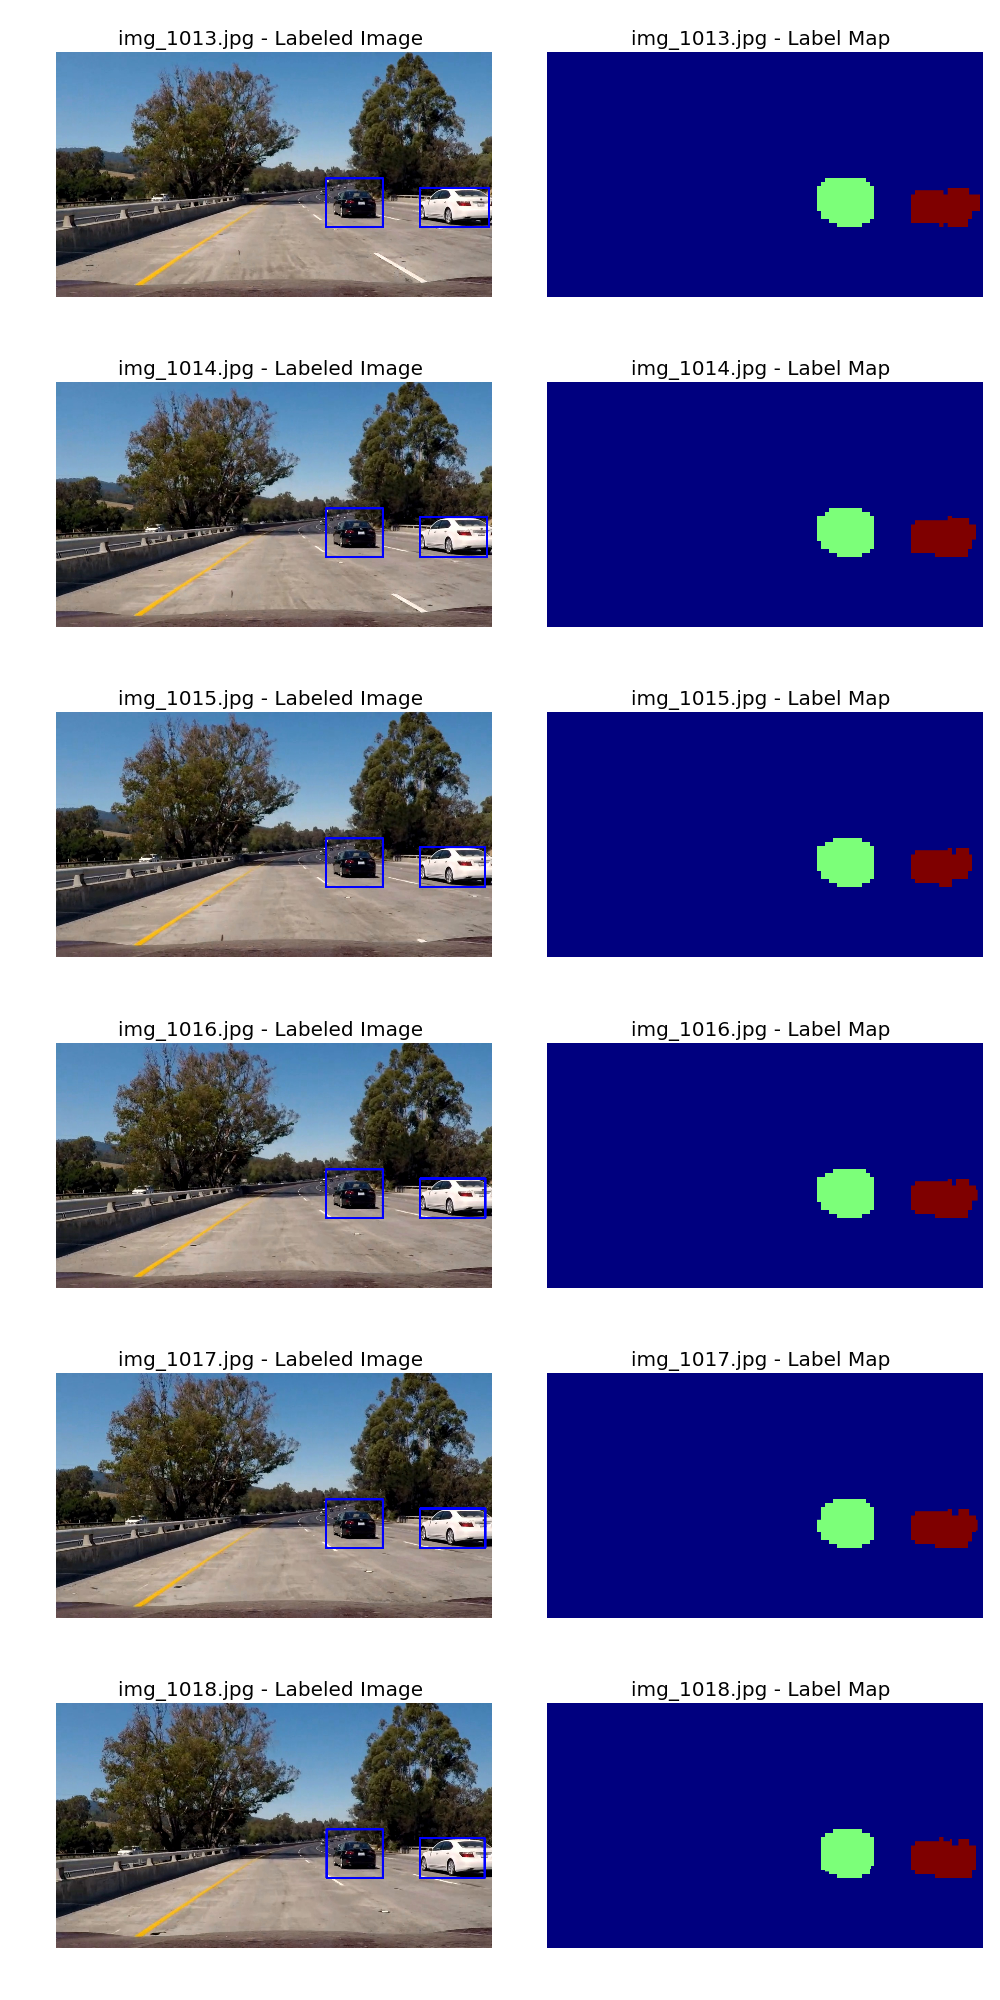
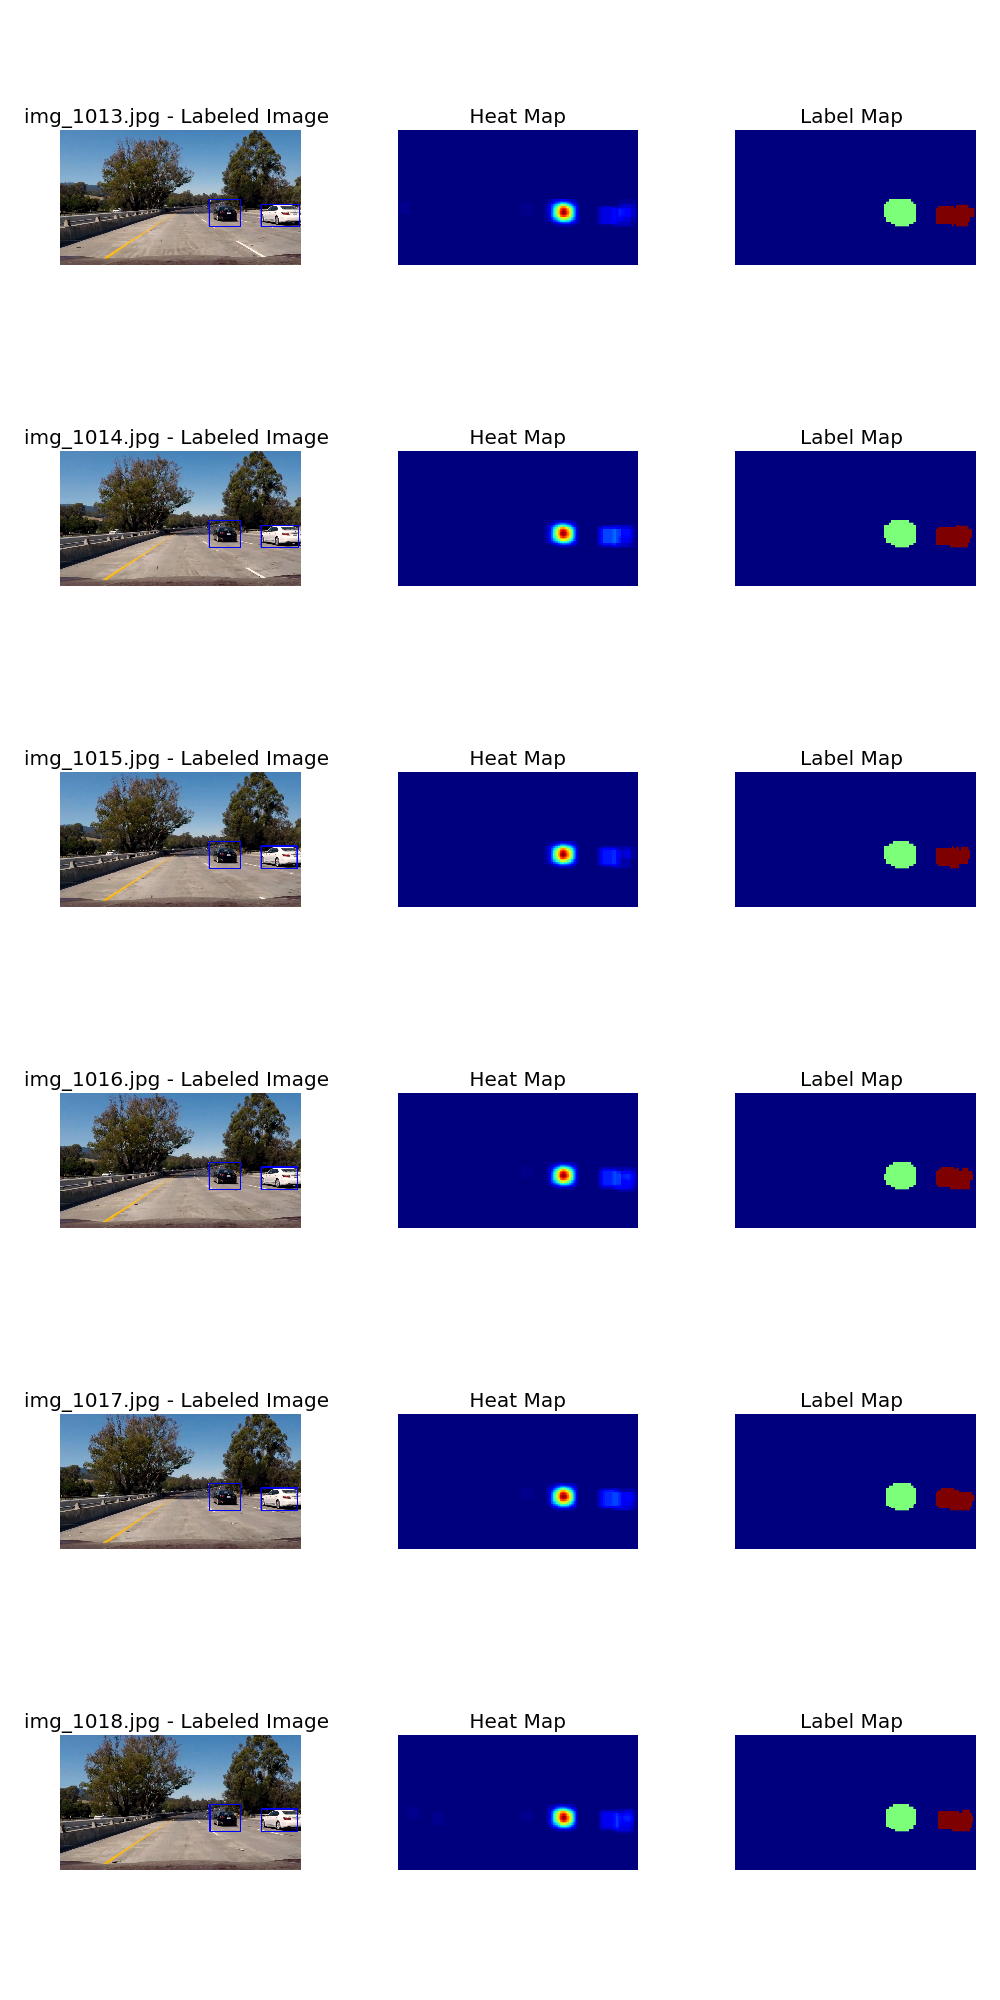
update image sizes in the report

diff --git a/vehicle_tracking/VehicleDetector.py b/vehicle_tracking/VehicleDetector.py
@@ -235,16 +235,18 @@ def main():
     title_list = []
     for img_loc in images_loc:
         img_bgr = cv2.imread(img_loc)
+        detected_windows, heatmap1 = car_detector.scanImg(img_bgr)
+
         img_labled_bgr, label_map = car_detector.labelCars(img_bgr)
         img_labled_rgb = cv2.cvtColor(img_labled_bgr, cv2.COLOR_BGR2RGB)
 
-        img_list.append([img_labled_rgb, label_map])
+        img_list.append([img_labled_rgb,heatmap1, label_map])
         # img_filename = img_loc[-8:]
         path, img_filename = os.path.split(img_loc)   
 
         print('Loading {}...'.format(img_filename))
         logger.info('Tested {}.'.format(img_filename))
-        title_list.append( [img_filename+' - Labeled Image ', img_filename+' - Label Map '] )
+        title_list.append( [img_filename+' - Labeled Image ', ' Heat Map ',  'Label Map '] )
 
 
     loc_to_save = 'data/outputs/output_bboxes.png'
